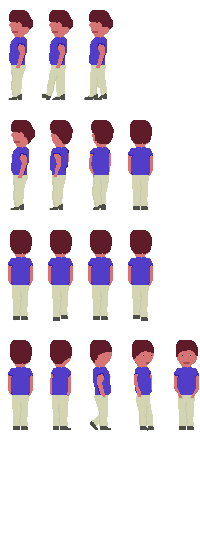
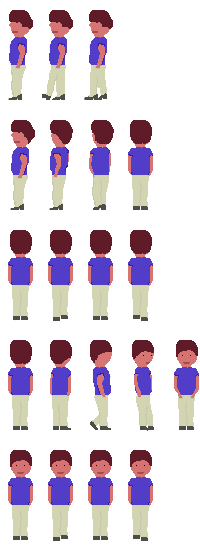
People now walk out of the elevator

diff --git a/Person.js b/Person.js
@@ -1,5 +1,8 @@
 function Person(place, config) {
 
+	var transitionEnd = "";
+	var animationEnd = "";
+
 	this.config = {
 		name: 'Untitled', // Name of the person.
 		picUrl: 'gfx/Person.png', // Persons's graphic.
@@ -10,7 +13,7 @@ function Person(place, config) {
 	};
 	
 	this.initialize(place, config);
-	
+
 	var insideElevator = false;
 	
 	var self = this;
@@ -37,7 +40,6 @@ function Person(place, config) {
 	this.moveToElevator = function(){
 		var targetPos = config.targetElevator.config.center+((Math.random()*40)-20)+'px';
 		self.setDirection(targetPos);
-		place[0].style.transform="scaleX("+direction+")";
 		self.moveTo(targetPos);
 	}
 
@@ -46,6 +48,9 @@ function Person(place, config) {
 			direction=-1;
 		else
 			direction=1;
+		
+		var transformStr = place[0].style.transform.replace(/scaleX(.*)/,"scaleX("+direction+")");
+		place[0].style.transform = transformStr;
 	}
 	
 	this.moveTo = function(left, top){
@@ -76,9 +81,25 @@ function Person(place, config) {
 		}
 		
 		if(insideElevator && config.targetFloor == floorOfElevator){
-			place.toggleClass("moveTransition");
+			var animatedElement = $(place[0]).find('.person')[0];
+			place[0].className = place[0].className+" moveTransition";
 			insideElevator = !insideElevator;
+			self.changeCssClassName(place[0], "insideElevator", "outsideElevator");
+			self.changeCssClassName(animatedElement, "waitInElevator", "walkOutElevatorAnimation");
+			addEventListenerFunction(place[0], animatedElement, "walkOutElevatorAnimation", "walkAnimation", "transitionend", function(){
+				var targetX = Math.round(Math.random())*(self.config.targetFloor.getWidth()-40)+'px';
+				place[0].className = place[0].className+" moveTransition";
+				self.setDirection(targetX);
+				addEventListenerFunction(place[0], animatedElement, "walkOutElevatorAnimation", "walkAnimation", "transitionend", function(){
+					self.despawn();
+				});
+				self.moveTo(targetX);
+				console.log("stepped out");
+			});
+			self.moveTo(self.getX()+'px', self.config.targetElevator.getCurrentFloor().getWalkableHeight()+'px');
+			place[0].style.transform= place[0].style.transform.replace(/scaleY(.*)/, "scaleY(1)");
 			console.log("stepping out");
+			
 		}		
 	};
 	
@@ -100,9 +121,15 @@ function Person(place, config) {
 	}
 	
 	window.setTimeout(this.moveToElevator,100);
-	
+
+	this.getX = function(){
+		var pixelPos = self.place[0].style.left;
+		return parseInt(pixelPos.substring(0,pixelPos.indexOf('p')));
+	}
+
 	this.getY = function(){
-		return parseInt(place[0].style.top.substr(0,place[0].style.top.indexOf('p')));
+		var pixelPos = self.place[0].style.top;
+		return parseInt(pixelPos.substr(0,pixelPos.indexOf('p')));
 	}
 	
 	this.changeCssClassName = function(element, oldName, newName){
@@ -111,11 +138,19 @@ function Person(place, config) {
 }
 
 Person.prototype.initialize = function(place, config) {
+	
+	this.config = config;
 	this.place = place;
 	this.place
 		.empty()
+		.css({transform:'scaleX(1) scaleY(1)'})
 		.addClass('person outsideElevator')
 		.append(
 			'<div class="scene part person walkAnimation" style="background-image: url(' + this.config.picUrl + '); width: 40px; height: ' + this.config.height + 'px;"></div>'
 		);
+}
+
+Person.prototype.despawn = function() {
+	console.log("despawned");
+	this.place[0].parentNode.removeChild(this.place[0]);
 }

diff --git a/Person.css b/Person.css
@@ -23,6 +23,10 @@
 	animation: walkIntoElevator .5s steps(4) infinite;
 }
 
+.walkOutElevatorAnimation{
+	animation: walkOutElevator .5s steps(4) infinite;
+}
+
 .turnInElevatorAnimation{
 	animation: turnInElevator .8s steps(5) 1;
 }
@@ -57,4 +61,9 @@
 @keyframes turnInElevator{
 	0%		{ background-position: 0px -330px; }
 	100%	{ background-position: -200px -330px; }
+}
+
+@keyframes walkOutElevator{
+	0%		{ background-position: 0px -440px; }
+	100%	{ background-position: -160px -440px; }
 }

diff --git a/Elevator.js b/Elevator.js
@@ -92,6 +92,10 @@ function Elevator(place, config) {
 		}
 	}
 	
+	this.getCurrentFloor = function(){
+		return self.config.floors[self.config.floorIndex];
+	}
+	
 	this.moveUp = function(n) {
 	self.fireEvent(elevatorStartEvent);
 		console.log('before: ', this.config.floorIndex, this.config.floors.length, this.config.currentPos);

diff --git a/Floor.js b/Floor.js
@@ -11,6 +11,14 @@ function Floor(place, config) {
 	};
 	
 	this.initialize(place, config);
+	
+	this.getWalkableHeight = function(){
+		return this.config.walkableHeight+this.config.currentPos;
+	}
+	
+	this.getWidth = function(){
+		return this.config.width;
+	}
 }
 
 Floor.prototype.initialize = function(place, config) {

diff --git a/PersonGenerator.js b/PersonGenerator.js
@@ -43,7 +43,7 @@ function PersonGenerator(gameDiv, targetElevator){
 	}
 	
 	this.calculateTopOffset = function(targetFloor){
-		return targetFloor.config.walkableHeight+targetFloor.config.currentPos;
+		return targetFloor.getWalkableHeight();
 	}
 	
 	this.determineSideOffset = function(floor){
